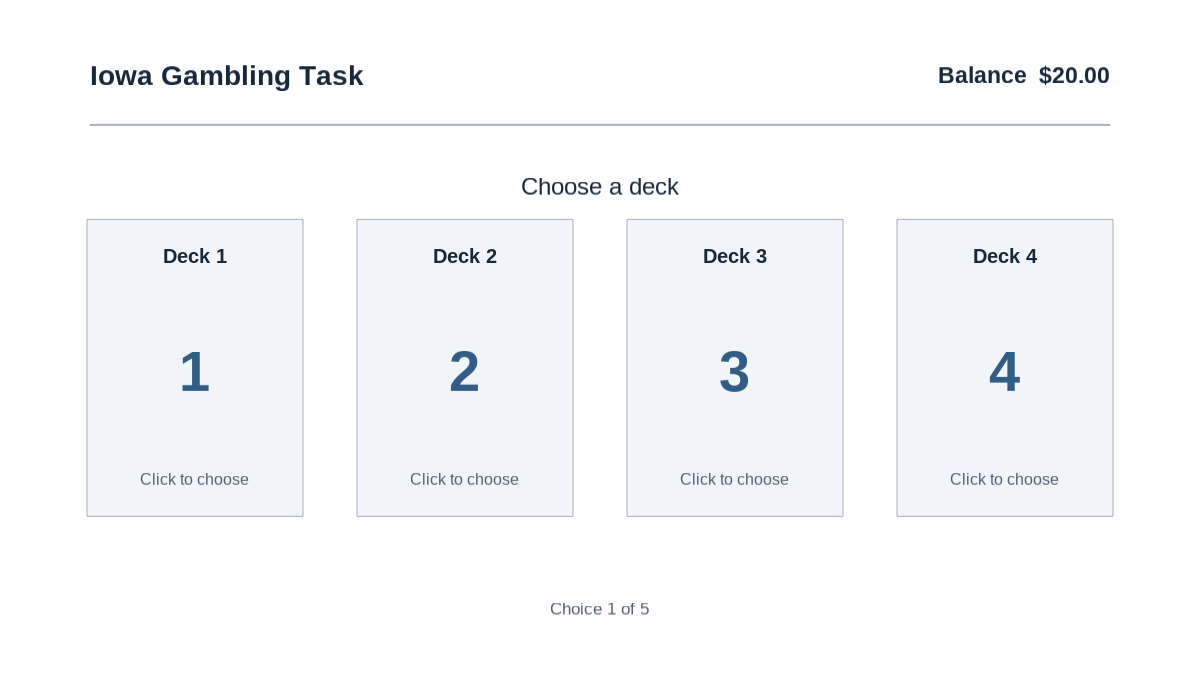
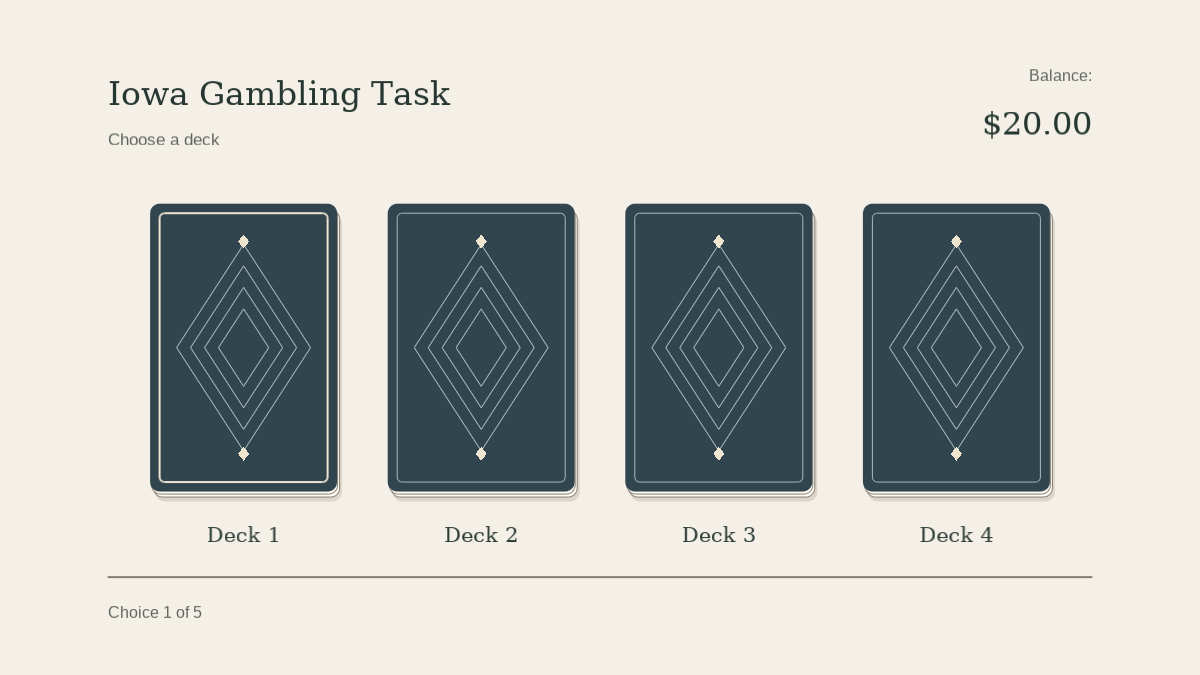
Publish real captures of the recreated card and balloon screens

diff --git a/docs/screenshots/README.md b/docs/screenshots/README.md
@@ -10,13 +10,15 @@ This is an automated presentation demonstration, not a completed human participa
 session or a validation of keyboard hardware, physical display timing, audio,
 VLC video playback or the participant dialog. Video content was not captured.
 The SAM demonstration selects 5 on both scales. The IGT chooses deck 1 for five
-trials with seeded randomness. BART collects one balloon after twenty pumps,
-with audio muted. Exact runtime/source details are in [provenance.json](provenance.json).
-The [successful hosted run](https://github.com/Roobahist/bart_igt/actions/runs/38171823962)
+trials with seeded randomness. BART collects one balloon after twenty pumps and a separate seeded
+demonstration after 127 pumps, with audio muted. Neither uses forced outcomes. Exact runtime/source details are in [provenance.json](provenance.json).
+The [successful hosted run](https://github.com/Roobahist/bart_igt/actions/runs/38172580303)
 used PsychoPy 2026.2.4 and Python 3.11.17.
 
-The task redesign replaces the black IGT face and detached feedback bars with
-a light selected card containing gain/loss labels and amounts. See
+The task redesign uses printed deck backs and a light selected card containing
+gain/loss labels and amounts. BART uses a native vector balloon, a separate reward
+ledger and keyboard legends. Balloon artwork, position and visual growth range
+have changed; task probabilities and rewards are retained. See
 [the design decisions](../ui-design.md) for rationale and protocol implications.
 
 ## Screens
@@ -39,7 +41,11 @@ a light selected card containing gain/loss labels and amounts. See
 
 ![English BART instructions](bart-instructions.png)
 
+![English BART starting balloon](bart-start.png)
+
 ![English BART after twenty pumps](bart-balloon.png)
+
+![English BART after 127 successful pumps](bart-large-balloon.png)
 
 ## Reproducing the capture
 
